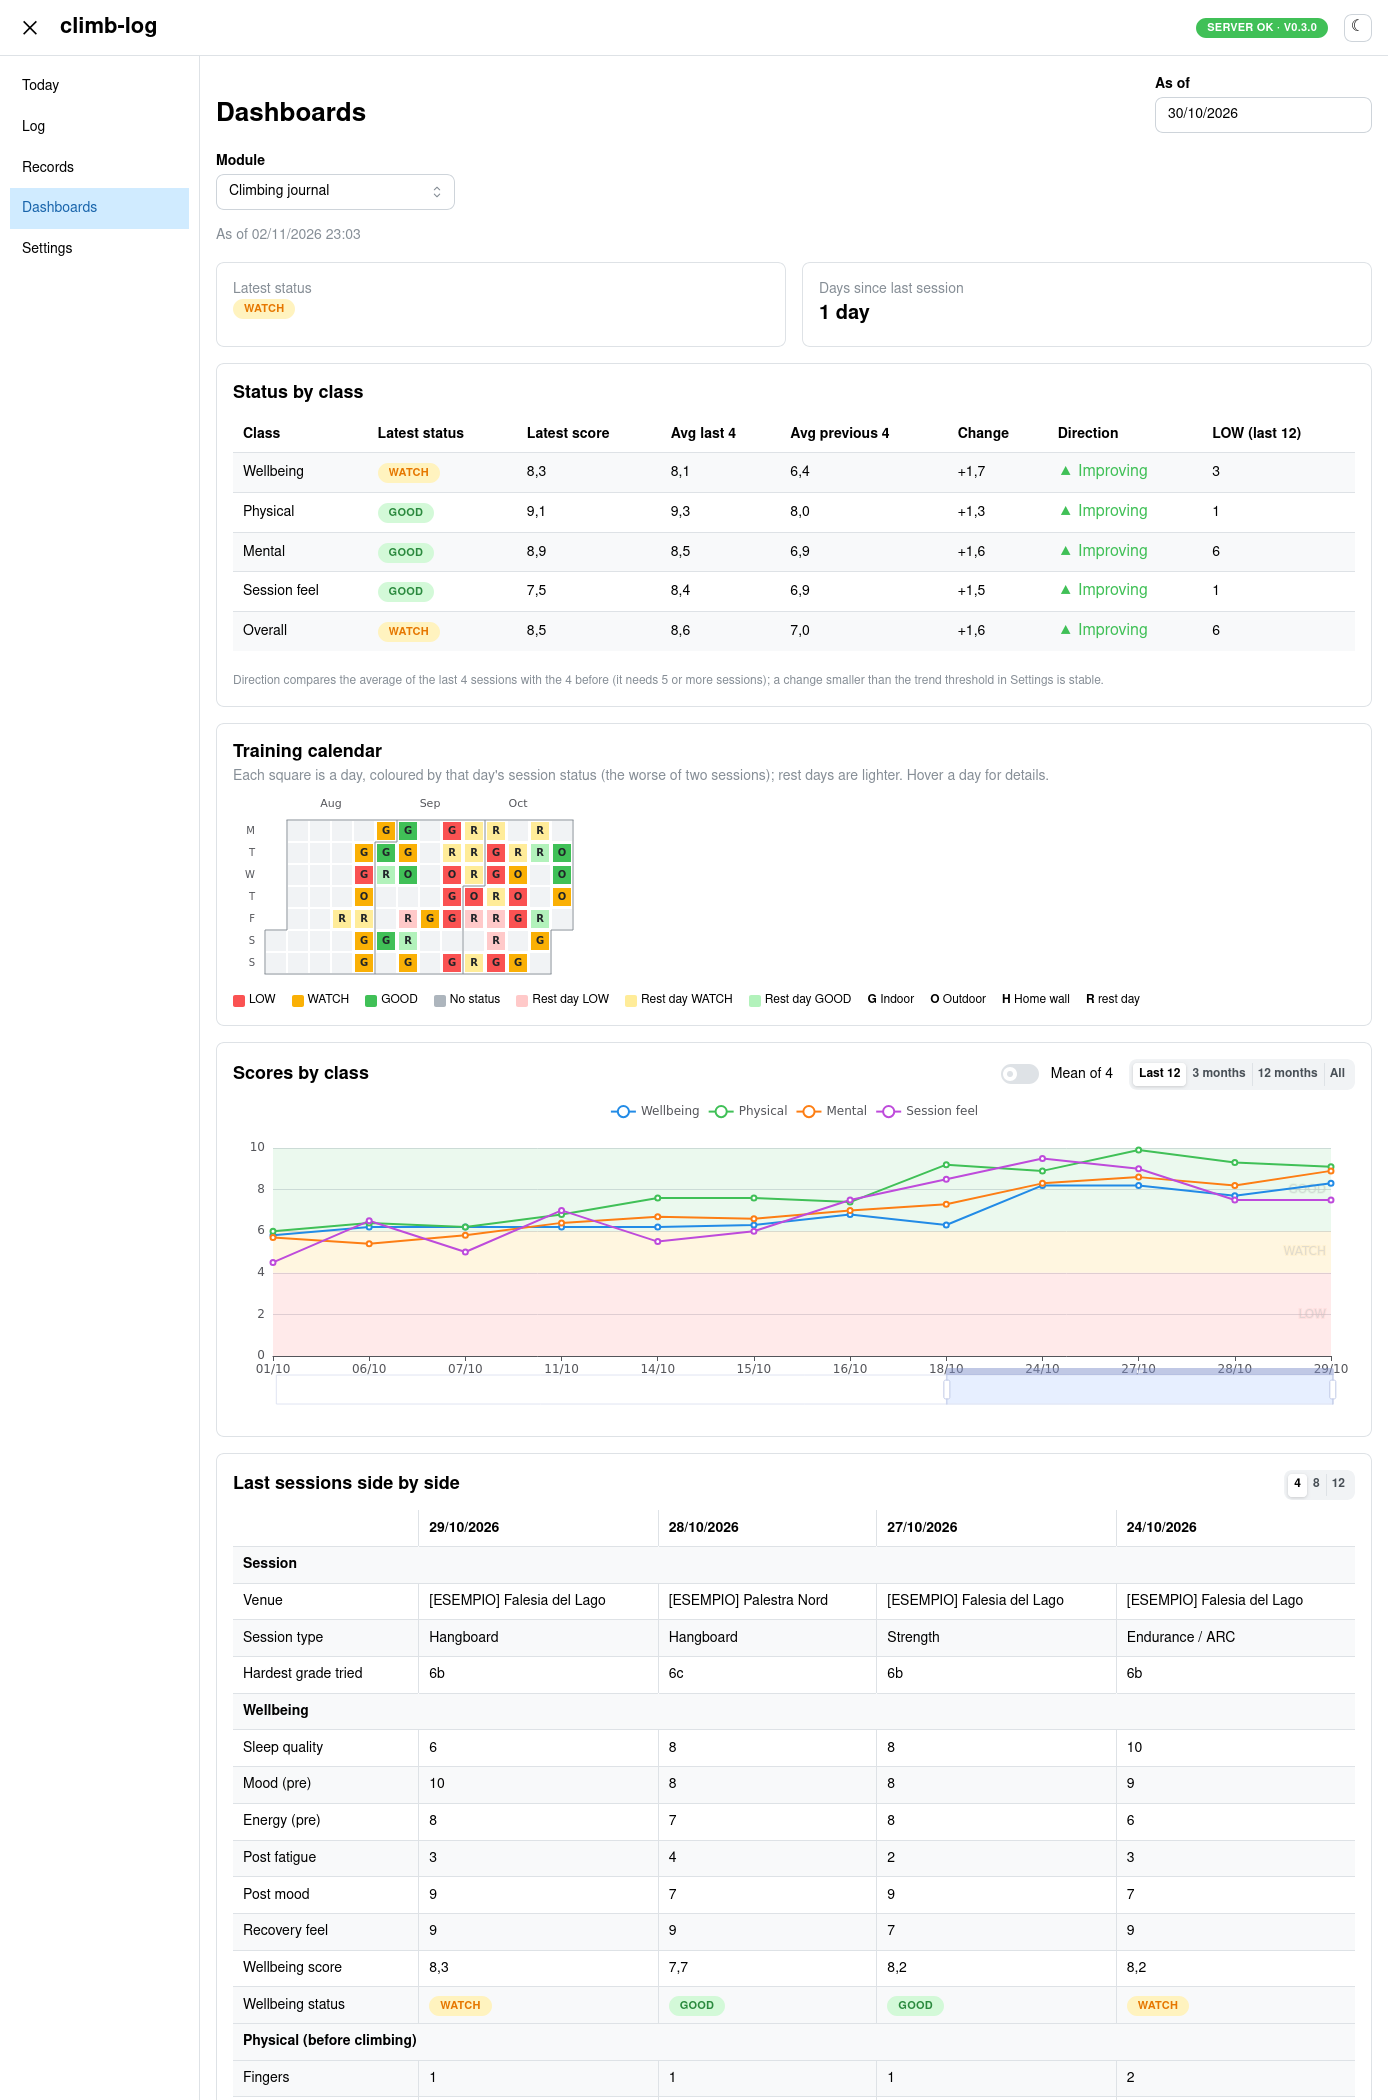
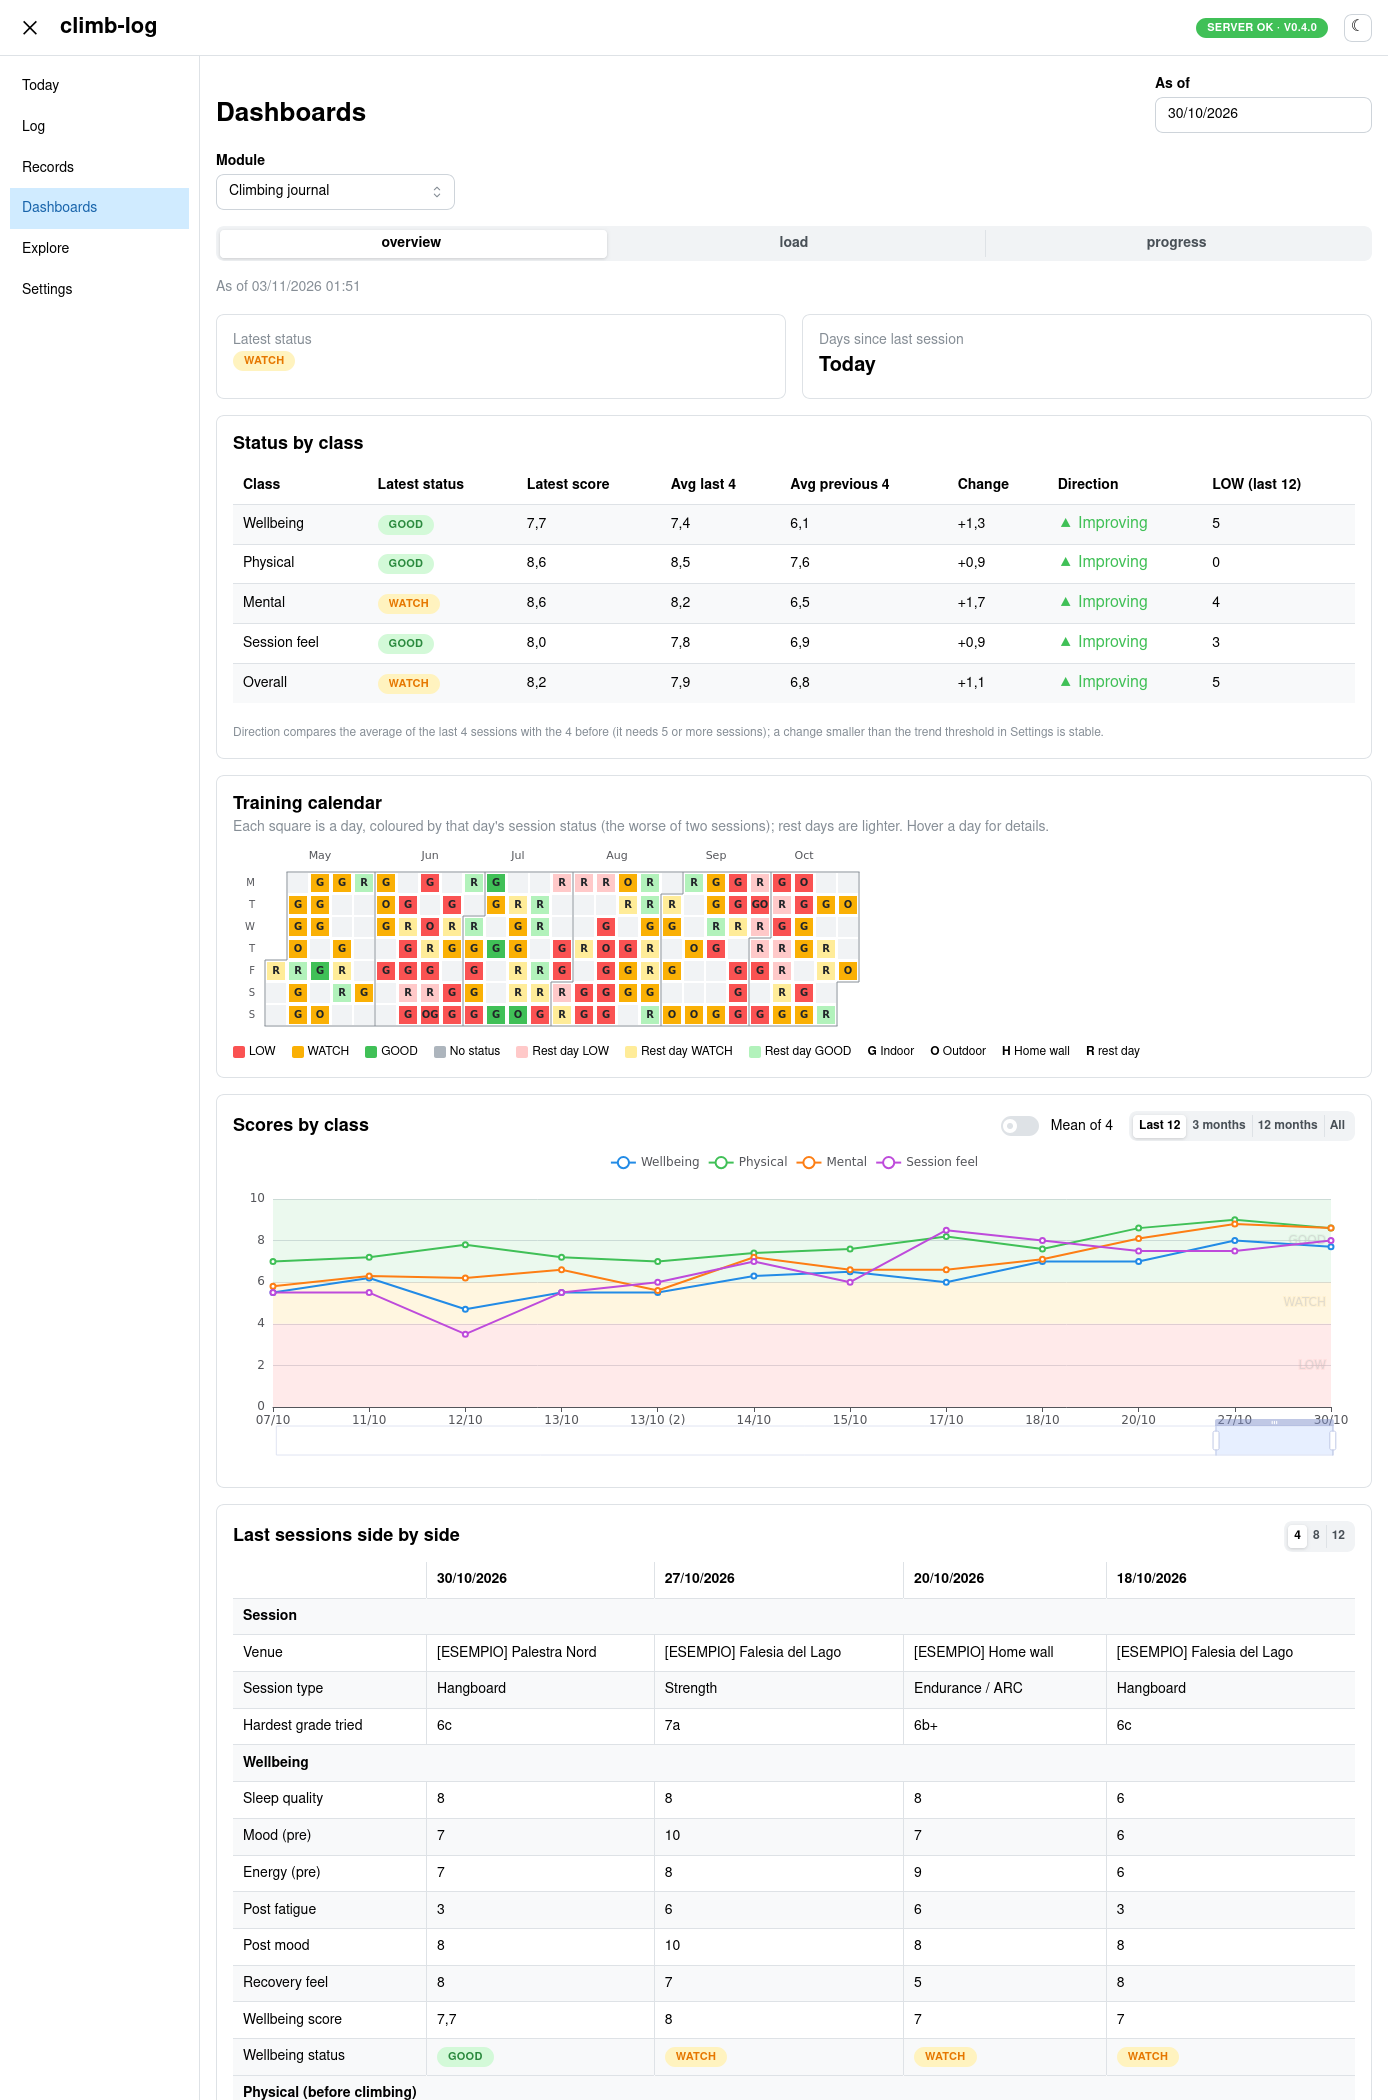
docs: add M4 screenshots and close M4 as v0.4.0
M4 ends with a release: the README now shows the training load and the Explore page with a
correlation, on a demo journal that now covers 26 weeks so the ratio and the correlations
have something to show. Version 0.4.0 in pyproject, package.json and the CHANGELOG; the
milestone's tick is left for the owner's check of the done-when.

diff --git a/scripts/demo_journal.py b/scripts/demo_journal.py
@@ -2,12 +2,13 @@
 # ruff: noqa: RUF001  (the journal's choices use en dashes, as in "Good - as planned")
 """A fictional climbing journal that looks like real use, for screenshots and demos (D-034).
 
-Every value is invented: ten weeks up to a day, about three sessions a week (now and then two
-on one day), rest days in between, scores that drift with a slow "form" curve and a few bad
+Every value is invented: 26 weeks up to a day (enough for the training-load ratio and a few
+correlations), about three sessions a week (now and then two on one day), rest days in
+between, scores (and a bit of the sleep) that drift with a slow "form" curve and a few bad
 days, and short `[ESEMPIO]` notes. Written through the app's own writer, so the workbook is
 exactly what logging in the app produces (formulas, Summary tab, `_settings`).
 
-    uv run python scripts/demo_journal.py OUT.xlsx [--end 2026-10-30] [--seed 3]
+    uv run python scripts/demo_journal.py OUT.xlsx [--end 2026-10-30] [--weeks 26] [--seed 3]
 """
 
 import argparse
@@ -48,7 +49,7 @@ def session(rng: random.Random, day: dt.date, n: int, form: float) -> dict[str, 
         "duration_min": rng.choice([60, 75, 90, 105, 120]),
         "hardest_grade": rng.choice(GRADES),
         "notes": rng.choice(NOTES),
-        "wb_sleep_hours": rng.choice([6, 6.5, 7, 7.5, 8, 8.5]),
+        "wb_sleep_hours": max(5.0, min(9.0, round(rng.gauss(5.4 + 0.25 * form, 0.6) * 2) / 2)),
         "wb_sleep_quality": scale(rng, form),
         "wb_mood_pre": scale(rng, form),
         "wb_energy_pre": scale(rng, form),
@@ -107,7 +108,7 @@ def rest_day(rng: random.Random, day: dt.date, form: float) -> dict[str, Any]:
     return values
 
 
-def write(path: Path, end: dt.date, seed: int, weeks: int = 10) -> int:
+def write(path: Path, end: dt.date, seed: int, weeks: int = 26) -> int:
     """The workbook at `path` (new), with the records up to `end`; how many were written."""
     module = load_module(JOURNAL)
     repo = XlsxBackend(path)
@@ -134,11 +135,12 @@ def main() -> None:
     parser = argparse.ArgumentParser(description=__doc__.split("\n\n")[0])
     parser.add_argument("out", type=Path, help="the workbook to write (must not exist)")
     parser.add_argument("--end", type=dt.date.fromisoformat, default=dt.date(2026, 10, 30))
+    parser.add_argument("--weeks", type=int, default=26)
     parser.add_argument("--seed", type=int, default=3)
     args = parser.parse_args()
     if args.out.exists():
         parser.error(f"{args.out} exists: give a new file")
-    count = write(args.out, args.end, args.seed)
+    count = write(args.out, args.end, args.seed, args.weeks)
     print(f"{args.out}: {count} fictional records up to {args.end}")
 
 

diff --git a/scripts/screenshots.py b/scripts/screenshots.py
@@ -31,9 +31,16 @@ from http.server import BaseHTTPRequestHandler, ThreadingHTTPServer
 from pathlib import Path
 
 DAY = "2026-10-30"  # the day the pages show (the demo journal ends there)
+START = "2026-05-01"  # the Explore page's range (the demo journal's 26 weeks)
+SLEEP, FEEL = "journal.session.wb_sleep_hours", "journal.session.feel_score"
 PAGES = {  # file → (path, height)
     "today.png": (f"/?date={DAY}", 1100),
     "dashboard.png": (f"/dashboards/journal?date={DAY}", 2100),
+    "load.png": (f"/dashboards/journal?date={DAY}&view=load", 1250),
+    "explore.png": (
+        f"/explore?range=custom&start={START}&end={DAY}&tab=pair&x={SLEEP}&y={FEEL}",
+        1000,
+    ),
 }
 WIDTH = 1400
 PIXEL = bytes.fromhex(

diff --git a/README.md b/README.md
@@ -7,12 +7,16 @@ you own (local `.xlsx` or Google Sheets) and can still edit by hand; the app add
 logging forms, interactive charts, cross-module analysis and a "next session" recommendation.
 What is tracked is defined in config files (module YAMLs), not in code.
 
-**Status: v0.3.0, the journal app (M3).** The climbing journal is logged in the app on the
-computer (pre-session, post-session and rest-day forms), with a Today page (what is still to
-log, the next-session recommendation), a records page that also fixes entries typed on the
-phone, and a dashboard at parity with the old Summary sheets. The data stays in Google Sheets
-or a local `.xlsx`, which also get a generated Summary tab for use on the phone. Other modules
-and the analysis explorer come next: see the [roadmap](design/07-roadmap.md).
+**Status: v0.4.0, analytics (M4).** The climbing journal is logged in the app on the computer
+(pre-session, post-session and rest-day forms), with a Today page (what is still to log, the
+next-session recommendation), a records page that also fixes entries typed on the phone, and
+dashboards: the old Summary sheets, training load (weekly session-RPE load, the acute:chronic
+ratio, monotony, streaks) and progress (how sessions change mood and soreness, soreness by
+body part, grades). The Explore page plots any metrics over time and shows correlations with
+n and 95% intervals (e.g. sleep vs session feel), honestly flagged while the data is thin. The
+data stays in Google Sheets or a local `.xlsx`, which also get a generated Summary tab for use
+on the phone. The program modules (shoulder, fear of falling) come next: see the
+[roadmap](design/07-roadmap.md).
 
 ## Screenshots
 
@@ -21,11 +25,14 @@ On a fictional journal (`scripts/demo_journal.py`; every value is invented):
 | Today | Dashboard |
 |---|---|
 | [![Today: the suggested next session and the forms due](docs/screenshots/today.png)](docs/screenshots/today.png) | [![Dashboard: status by class, calendar, scores by class, last sessions](docs/screenshots/dashboard.png)](docs/screenshots/dashboard.png) |
+| **Training load** | **Explore** |
+| [![Training load: weekly load, the acute:chronic ratio with zones, monotony and strain](docs/screenshots/load.png)](docs/screenshots/load.png) | [![Explore: sleep hours against feel score, with Spearman and Pearson r, 95% intervals and n](docs/screenshots/explore.png)](docs/screenshots/explore.png) |
 
 To make them again: `make build`, then
 `uv run python scripts/demo_journal.py build/demo/journal.xlsx` and
 `uv run python scripts/screenshots.py CONFIG docs/screenshots`, with an app config pointing the
-journal module to that workbook (Firefox is needed).
+journal module to that workbook (written by hand, see the script's docstring; Firefox is
+needed).
 
 ## Quick start
 

diff --git a/CHANGELOG.md b/CHANGELOG.md
@@ -6,7 +6,14 @@ uses [Semantic Versioning](https://semver.org/spec/v2.0.0.html) (`design/08-work
 
 ## [Unreleased]
 
+## [0.4.0] - 2026-11-03
+
+M4: analytics: the metric layer, new charts, training load, before/after and grades, the
+Explore page with correlations (`design/07-roadmap.md`).
+
 ### Added
+- README screenshots of the training load and the Explore page (#104); the demo journal of
+  `scripts/demo_journal.py` covers 26 weeks (`--weeks`).
 - Metric catalogue and query API (#97, D-090): `GET /api/metrics` lists every numeric field and
   derived value of the loaded modules (and the choice fields that filter them);
   `GET /api/metrics/query` lines metrics up by record, day, week or month, with an aggregate,
@@ -275,7 +282,8 @@ M1: the module framework and local storage (`design/07-roadmap.md`).
   locally before changes to formulas, expressions or sync (D-057).
 - `make install` fails if `uv.lock` is out of date instead of updating it (`uv sync --locked`).
 
-[Unreleased]: https://github.com/federico-camerota/climb-log/compare/v0.3.0...HEAD
+[Unreleased]: https://github.com/federico-camerota/climb-log/compare/v0.4.0...HEAD
+[0.4.0]: https://github.com/federico-camerota/climb-log/compare/v0.3.0...v0.4.0
 [0.3.0]: https://github.com/federico-camerota/climb-log/compare/v0.2.0...v0.3.0
 [0.2.0]: https://github.com/federico-camerota/climb-log/compare/v0.1.0...v0.2.0
 [0.1.0]: https://github.com/federico-camerota/climb-log/releases/tag/v0.1.0

diff --git a/design/07-roadmap.md b/design/07-roadmap.md
@@ -121,7 +121,11 @@ first, the correlation tools last, D-086). Statistics in plain Python with scipy
   optional lag, greyed out under the minimum n), a matrix (Spearman, cells hidden under the
   minimum n), and "what predicts a good session?" (pre-session metrics only).
   → done (D-096, #103): Explore's correlation tabs; scipy added (D-087).
-- Close M4: docs, README screenshots, v0.4.0.
+- Close M4: docs, README screenshots, v0.4.0. → done (#104): Training load and Explore
+  screenshots on the demo journal (now 26 weeks, so the ratio and correlations show
+  something); v0.4.0 in `pyproject.toml`, `package.json` and the CHANGELOG.
+- All M4 issues are done; the milestone is ticked once the owner has checked the done-when
+  below, and v0.4.0 is tagged then.
 - **Done when**: the explorer can answer "does sleep relate to my session feel?" with n and CI.
 
 ### M5 · Program modules ☐

diff --git a/design/README.md b/design/README.md
@@ -8,8 +8,10 @@ interface (logging, visualization, analysis, planning). The data stays in spread
 Sheets backend) done, released as v0.2.0: the journal lives on Google and is typed on the phone.
 M3 (the journal app: logging in the app on the computer, Today, records with fixes, the
 dashboard at parity with the old Summary sheets, and the sheet's Summary tab) done, released
-as v0.3.0. Next is M4, analytics: scoped in eight issues (`07-roadmap.md`, D-086–D-088).
-Last updated 2026-11-02.
+as v0.3.0. M4 (analytics: the metric layer, widget library v1, training load, before/after and
+grades, the Explore page with correlations) is done in code, released as v0.4.0 once the
+owner has checked its done-when (`07-roadmap.md`, D-086–D-096). Next is M5, the program
+modules. Last updated 2026-11-03.
 
 ## Read in this order
 | File | What it covers |
